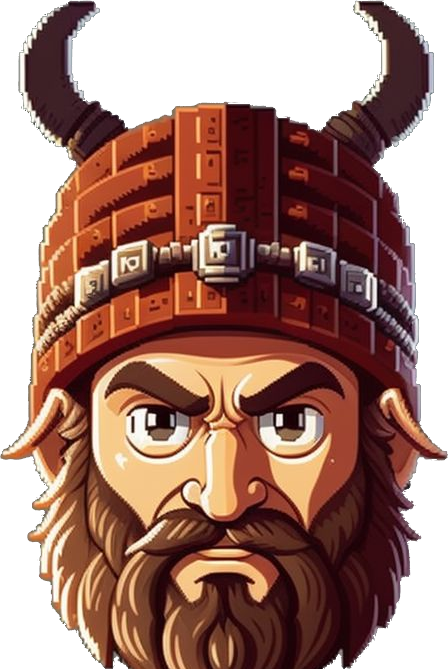
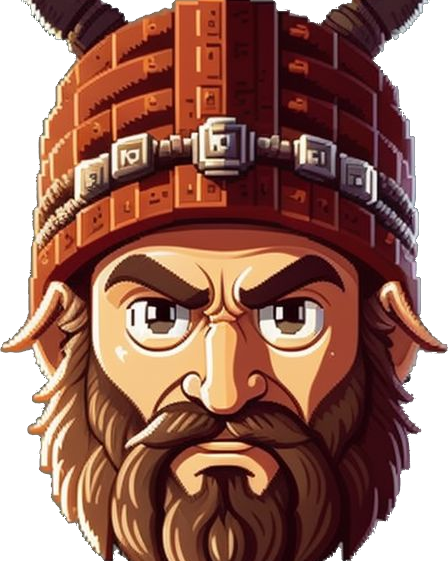
Implemented head graphics. Assigned head graphic url to the gladiator class. Assigned the body graphic url to the gladiator class. Added the DrawyBody and DrawHead method in the Gladiators class, now the image is provided by the gladiator, not by a function outside the class. Whenever the 5 and 6th 

diff --git a/script.js b/script.js
@@ -27,7 +27,6 @@ var isSpeedGenerated = false; // Tracks if speed has been generated
 var amountRandomiserDiceLeft = 3; // Number of dice available
 var gameStarting = true;
 var username = "";
-var gladiatorID = "";
 var gameScenario = 0; //initializes a variable that indicates in which "level" or "scenario" the user is currently on
 
 // Array to store gladiators
@@ -68,9 +67,7 @@ async function loginFunction() {
   await loadingEffect("darkgray", 300);
   username = document.getElementById("userNameInput").value; //Gets the username input from the input field
 
-  gladiatorID = randomiseNumber(1000000, 9999999); //Generates a pretty much "unique" gladiator ID
-
-  if (username != "" && gladiatorID != "") {
+  if (username != "") {
     //Checks that the username and gladiator ID are not blank
     document.getElementById("login").className = ""; // Hides the inputs of the login
     document.getElementById("login").classList.add("notDisplaying"); // Hides the inputs of the login
@@ -98,6 +95,10 @@ async function loginFunction() {
 
 // Function to draw the gladiator on the HTML page based on height and weight
 function drawHero() {
+  let hpHeroBar = document.getElementById("heroHPBarCreationScreen"); //gets the HP bar element from the document
+  hpHeroBar.classList.remove("notDisplaying"); // makes the HP bar visible
+  hpHeroBar.value = gladiators[0].hp + " / " + gladiators[0].maxHP; // displays the current HP on the bar
+
   let bodyHTMLStyle = document.getElementById("heroBody").style;
   let headHTMLStyle = document.getElementById("heroFace").style;
 
@@ -107,20 +108,11 @@ function drawHero() {
   headHTMLStyle.width = gladiators[0].weight + "px"; // Heads width is 50% of bodies width
   headHTMLStyle.height = ((15 * gladiators[0].height) / 90) * 3 + "px"; // Adjust head height based on body height
 
-  // Set background image based on the gladiator's somatotype
-  if (gladiators[0].somatotype.toLowerCase() == "endomorph") {
-    bodyHTMLStyle.backgroundImage =
-      "url('img/bodies/endomorph/" + randomiseNumber(1, 10) + ".png')";
-  } else if (gladiators[0].somatotype.toLowerCase() == "ectomorph") {
-    bodyHTMLStyle.backgroundImage =
-      "url('img/bodies/ectomorph/" + randomiseNumber(1, 10) + ".png')";
-  } else if (gladiators[0].somatotype.toLowerCase() == "mesomorph") {
-    bodyHTMLStyle.backgroundImage =
-      "url('img/bodies/mesomorph/" + randomiseNumber(1, 10) + ".png')";
-  }
+  // Set background image based on the gladiator's id
+  bodyHTMLStyle.backgroundImage = gladiators[0].bodyURL;
 
   // Set a default background image for the head
-  headHTMLStyle.backgroundImage = "url('img/defaulthead.png')";
+  headHTMLStyle.backgroundImage = gladiators[0].headURL;
 }
 
 // Function to add event listener to each randomizer die
@@ -173,8 +165,7 @@ function forgeHeroGladiator() {
         gladiatorsConstitution,
         gladiatorsLuck,
         gladiatorsSpeed,
-        username,
-        gladiatorID
+        username
       );
 
       // Add the new gladiator to the array
@@ -471,8 +462,7 @@ class Gladiator {
     constitution,
     luck,
     speed,
-    username,
-    gladiatorid
+    username
   ) {
     // Initialize instance properties
     this.name = String(name); // Name of the gladiator
@@ -484,15 +474,54 @@ class Gladiator {
     this.luck = Number(luck); // Luck of the gladiator
     this.speed = Number(speed); // Speed of the gladiator
     this.username = String(username); // Username of who is using the gladiator
-    this.id = Number(gladiatorid); // Unique Gladiator ID
 
     // Calculate and assign attributes based on methods
+    this.id = this.generateGladiatorID(); // Unique Gladiator ID
+    this.bodyURL = this.drawGladiatorBody(); //Calls the method that assigns the matching body depending on the last digit of the Gladiator ID
+    this.headURL = this.drawGladiatorHead(); //Calls the method that assigns the matching head depending on the digit 5 + 6 of the Gladiator ID
     this.hp = this.calculateHP(); // Health Points
     this.maxHP = this.calculateMaxHP(); // Max HP, initially same as the HP
     this.strength = this.calculateStrength(); // Strength
     this.dexterity = this.calculateDexterity(); // Dexterity
   }
 
+  //Calculate Gladiator id
+  generateGladiatorID() {
+    //Generates a pretty much "unique" gladiator ID. If the 5th and 6th digit are >19, then it re-rolls again (only 20 heads avaiable, and 5+6 digits represent the head graphic)
+    let gladiatorID = randomiseNumber(1000000, 9999999);
+    while (Number(gladiatorID.toString().slice(4, 6)) >= 20) {
+      //If the Head ID generated is 20 or more, then it generates new ones in a loop until one matches the wanted criteria
+      gladiatorID = randomiseNumber(1000000, 9999999);
+      if (Number(gladiatorID.toString().slice(4, 6)) <= 19) {
+        //If the Head ID generated is between 00 and 19, then it keeps it and breaks the loop
+
+        break;
+      }
+    }
+    return Number(gladiatorID);
+  }
+
+  // Draw Body
+  drawGladiatorBody() {
+    let idToString = this.id.toString(); //Obtains the Gladiators ID and passes it to a string
+    let idBody = idToString.slice(6, 7); //Last Digit of the Gladiator ID represents its body type (from 0 to 9, 10 options)
+    let finalBody = ""; //Variable that will return the body graphic
+
+    if (this.somatotype.toLowerCase() == "ectomorph") {
+      return (finalBody = "url('img/bodies/ectomorph/" + idBody + ".png')");
+    } else if (this.somatotype.toLowerCase() == "mesomorph") {
+      return (finalBody = "url('img/bodies/mesomorph/" + idBody + ".png')");
+    } else if (this.somatotype.toLowerCase() == "endomorph") {
+      return (finalBody = "url('img/bodies/endomorph/" + idBody + ".png')");
+    }
+  }
+  //Draw Head
+  drawGladiatorHead() {
+    let idToString = this.id.toString(); //Obtains the Gladiators ID and passes it to a string
+    let idHead = idToString.slice(4, 6); //Digit 5 and 6 of the Gladiator ID represents its head type (from 0 to 19, 20 options)
+    let finalHead = ""; //Variable that will return the head graphic
+    return (finalHead = "url('img/heads/" + idHead + ".png')");
+  }
   // Method to make the gladiato's lose HP due to potential damage
   sufferDmg(number) {
     this.hp = this.hp - number;
@@ -515,16 +544,18 @@ class Gladiator {
 
     // Determine the body type modifier based on somatotype
     if (this.somatotype.toLowerCase() == "ectomorph") {
-      bodyTypeModifier = 0.6; // Ectomorphs have a lower strength modifier
+      bodyTypeModifier = -1; // Ectomorphs have a lower strength modifier
     } else if (this.somatotype.toLowerCase() == "mesomorph") {
       bodyTypeModifier = 1; // Mesomorphs have a standard strength modifier
     } else if (this.somatotype.toLowerCase() == "endomorph") {
-      bodyTypeModifier = 1.4; // Endomorphs have a higher strength modifier
+      bodyTypeModifier = 3; // Endomorphs have a higher strength modifier
     }
 
     // Calculate strength
     return Math.ceil(
-      randomiseNumber(13, 18) + this.weight / this.height + bodyTypeModifier
+      randomiseNumber(13, 18) +
+        (this.weight / this.height) * randomiseNumber(2, 5) +
+        bodyTypeModifier
     );
   }
 
@@ -534,16 +565,18 @@ class Gladiator {
 
     // Determine the body type modifier based on somatotype
     if (this.somatotype.toLowerCase() == "ectomorph") {
-      bodyTypeModifier = 1.4; // Ectomorphs have a higher dexterity modifier
+      bodyTypeModifier = 3; // Ectomorphs have a higher dexterity modifier
     } else if (this.somatotype.toLowerCase() == "mesomorph") {
       bodyTypeModifier = 1; // Mesomorphs have a standard dexterity modifier
     } else if (this.somatotype.toLowerCase() == "endomorph") {
-      bodyTypeModifier = 0.6; // Endomorphs have a lower dexterity modifier
+      bodyTypeModifier = -1; // Endomorphs have a lower dexterity modifier
     }
 
     // Calculate dexterity
     return Math.ceil(
-      randomiseNumber(13, 18) + this.weight / this.height + bodyTypeModifier
+      randomiseNumber(13, 18) +
+        (this.weight / this.height) * randomiseNumber(2, 5) +
+        bodyTypeModifier
     );
   }
 }

diff --git a/index.html b/index.html
@@ -16,36 +16,46 @@
   </head>
 
   <body>
+    <!-- Home Screen -->
     <div id="homeScreen" class="container">
       <div class="row">
         <div
           class="col d-flex flex-column justify-content-center align-items-center"
         >
-          <br />
-          <br />
-          <br />
-          <br />
+          <!-- Spacer for positioning -->
+          <br /><br /><br /><br />
+
+          <!-- Title -->
           <h1>Gladiator's Forge</h1>
           <br />
+
+          <!-- Game selection options -->
           <div id="homeScreenSelections">
-            <!-- Will be automatically hidden by rungameStarting() when game is starting-->
-            <div class="row" onclick="startGame()"><h2>New Game</h2></div>
-            <div class="row"><h2>Podium</h2></div>
-            <div class="row"><h2>How to play</h2></div>
+            <!-- Will be automatically hidden by rungameStarting() when game is starting -->
+            <div class="row" onclick="startGame()">
+              <h2>New Game</h2>
+            </div>
+            <div class="row">
+              <h2>Podium</h2>
+            </div>
+            <div class="row">
+              <h2>How to play</h2>
+            </div>
           </div>
+
+          <!-- Login Section -->
           <div
             id="login"
             class="col d-flex flex-column justify-content-center align-items-center"
           >
             <div class="row" style="text-align: center">
               <h3>
-                Username<br /><input
-                  id="userNameInput"
-                  type="text"
-                  value="Test"
-                />
+                Username<br />
+                <input id="userNameInput" type="text" value="Test" />
               </h3>
             </div>
+
+            <!-- Button to create a gladiator -->
             <button onclick="loginFunction()" id="btnLogin">
               Create Gladiator
             </button>
@@ -53,11 +63,11 @@
         </div>
       </div>
     </div>
-    <!-- Container for the entire content of the creating character screen -->
+
+    <!-- Character Creation Screen -->
     <div id="characterCreationScreen" class="container">
       <!-- Row for displaying randomizer dice -->
       <div class="row text-center">
-        <!-- Individual dice elements for randomizing stats -->
         <div id="extraDie1" class="col-sm extraDie"></div>
         <div id="extraDie2" class="col-sm extraDie"></div>
         <div id="extraDie3" class="col-sm extraDie"></div>
@@ -65,14 +75,14 @@
 
       <!-- Row for gladiator input fields and stats -->
       <div class="row">
-        <!-- Column for inputs related to the gladiator -->
+        <!-- Column for gladiator input fields -->
         <div
           id="gladiatorInputs"
           class="col d-flex flex-column justify-content-center align-items-center"
         >
           <h2>Gladiator's Core</h2>
 
-          <!-- Input fields for entering gladiator properties -->
+          <!-- Input fields for gladiator properties -->
           <h3>Name:</h3>
           <input class="inputs" id="heroName" value="Test" />
 
@@ -128,12 +138,13 @@
           <button id="btnForgeGladiator">Forge Gladiator</button>
         </div>
 
-        <!-- Column for displaying calculated gladiator stats -->
+        <!-- Column for gladiator stats -->
         <div
           id="gladiatorStats"
           class="col d-flex flex-column justify-content-center align-items-center"
         >
           <h2>Gladiator's Stats:</h2>
+
           <h3>Strength:</h3>
           <div>
             <input class="inputs" readonly id="heroStrength" />
@@ -156,13 +167,29 @@
           class="col d-flex flex-column justify-content-center align-items-center"
           style="background-color: darkgray"
         >
-          <!-- Row for displaying the gladiator's face image -->
+          <!-- Row for gladiator's HP bar -->
+          <div
+            class="row"
+            id="divheroHPBarCreationScreen"
+            style="background-size: cover; background-size: 100% 100%"
+          >
+            <input
+              id="heroHPBarCreationScreen"
+              style="background-color: lightcoral; text-align: center"
+              class="notDisplaying"
+              readonly
+            />
+            <br />
+          </div>
+
+          <!-- Row for gladiator's face -->
           <div
             class="row"
             id="heroFace"
             style="background-size: cover; background-size: 100% 100%"
           ></div>
-          <!-- Row for displaying the gladiator's body image -->
+
+          <!-- Row for gladiator's body -->
           <div
             class="row"
             id="heroBody"
